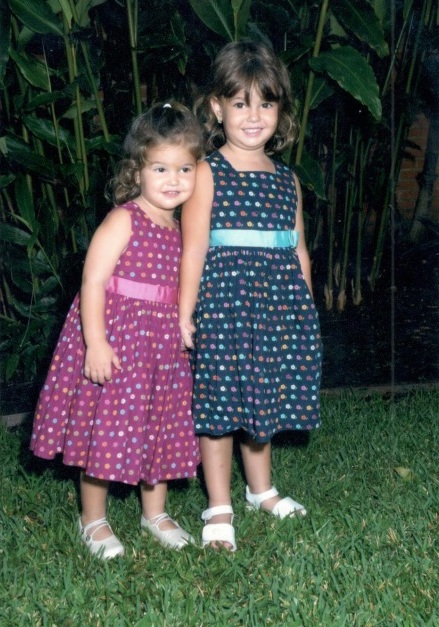
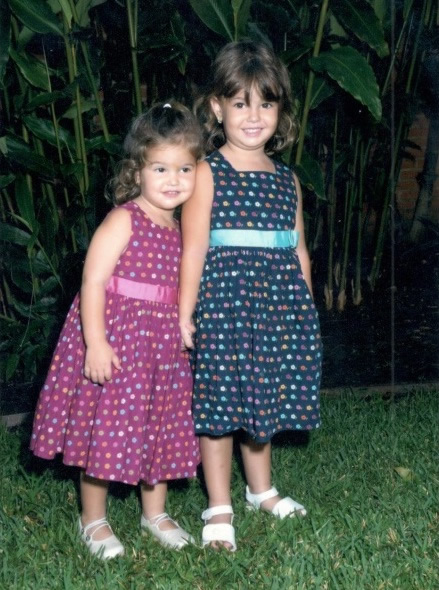
cambios

diff --git a/Biografías/Biografia Mi hermana Vivi/Biografia_Mi_hermana_Vivi.html b/Biografías/Biografia Mi hermana Vivi/Biografia_Mi_hermana_Vivi.html
@@ -31,7 +31,7 @@ body {
 <BODY LANG="es-VE" DIR="LTR">
 <P ALIGN=CENTER STYLE="margin-bottom: 0.14in"><A NAME="_GoBack"></A><FONT FACE="Times New Roman, serif"><FONT SIZE=3><SPAN LANG="en-US"><U>Mi
 hermana, Vivi Levy Cohen</U></SPAN></FONT></FONT></P>
-<P ALIGN=CENTER STYLE="margin-bottom: 0.14in"><IMG SRC="Biografia_Mi_hermana_Vivi_html_3df288a3.png" NAME="Imagen 45" ALIGN=BOTTOM WIDTH=202 HEIGHT=151 BORDER=0><IMG SRC="Biografia_Mi_hermana_Vivi_html_f6ceb9da.png" NAME="Imagen 46" ALIGN=BOTTOM WIDTH=190 HEIGHT=142 BORDER=0><IMG SRC="Biografia_Mi_hermana_Vivi_html_afddc7f2.png" NAME="Imagen 69" ALIGN=BOTTOM WIDTH=187 HEIGHT=141 BORDER=0></P>
+<P ALIGN=CENTER STYLE="margin-bottom: 0.14in"><IMG SRC="Biografia_Mi_hermana_Vivi_html_3df288a3.png" NAME="Imagen 45" ALIGN=BOTTOM WIDTH=202 HEIGHT=151 BORDER=0><IMG SRC="Biografia_Mi_hermana_Vivi_html_f6ceb9da.png" NAME="Imagen 46" ALIGN=BOTTOM WIDTH=190 HEIGHT=151 BORDER=0><IMG SRC="Biografia_Mi_hermana_Vivi_html_afddc7f2.png" NAME="Imagen 69" ALIGN=BOTTOM WIDTH=203 HEIGHT=151 BORDER=0></P>
 <P ALIGN=JUSTIFY STYLE="margin-bottom: 0.14in"><FONT FACE="Times New Roman, serif"><FONT SIZE=3><SPAN LANG="en-US">Vivi
 nació 18 meses después que yo, el 7 de enero del 2005. Mis padres
 se enteraron que era una niña ese mismo día, pues quisieron que sea
@@ -91,8 +91,8 @@ que a mí me provocaba hacer con ella (esto lo sé ya que mi mamá me
 enseñó varias fotos en las que me veo siempre montada encima de mi
 hermanita)</SPAN></FONT></FONT></P>
 <P ALIGN=CENTER STYLE="margin-bottom: 0.14in"><IMG SRC="Biografia_Mi_hermana_Vivi_html_2205f070.png" NAME="Imagen 62" ALIGN=BOTTOM WIDTH=233 HEIGHT=176 BORDER=0>
-<IMG SRC="Biografia_Mi_hermana_Vivi_html_f21e341b.png" NAME="Imagen 63" ALIGN=BOTTOM WIDTH=233 HEIGHT=174 BORDER=0>
-<IMG SRC="Biografia_Mi_hermana_Vivi_html_b30e93f3.png" NAME="Imagen 64" ALIGN=BOTTOM WIDTH=233 HEIGHT=174 BORDER=0></P>
+<IMG SRC="Biografia_Mi_hermana_Vivi_html_f21e341b.png" NAME="Imagen 63" ALIGN=BOTTOM WIDTH=233 HEIGHT=176 BORDER=0>
+<IMG SRC="Biografia_Mi_hermana_Vivi_html_b30e93f3.png" NAME="Imagen 64" ALIGN=BOTTOM WIDTH=233 HEIGHT=176 BORDER=0></P>
 <P LANG="en-US" ALIGN=JUSTIFY STYLE="margin-bottom: 0.14in"><BR>
 </P>
 <P ALIGN=JUSTIFY STYLE="margin-bottom: 0.14in"><FONT FACE="Times New Roman, serif"><FONT SIZE=3><SPAN LANG="en-US">Vivi
@@ -145,16 +145,17 @@ hace lo que siempre ha hecho “Vivir la vida de manera hermosa”.</SPAN></FONT
 </P>
 <P ALIGN=CENTER STYLE="margin-bottom: 0.14in"><FONT FACE="Times New Roman, serif"><FONT SIZE=5 STYLE="font-size: 20pt"><SPAN LANG="en-US"><B>MI
 HERMANA Y YO</B></SPAN></FONT></FONT></P>
-<P ALIGN=JUSTIFY STYLE="margin-bottom: 0.14in"><IMG SRC="Biografia_Mi_hermana_Vivi_html_3161d895.jpg" NAME="Imagen 1" ALIGN=BOTTOM WIDTH=215 HEIGHT=301 BORDER=0><IMG SRC="Biografia_Mi_hermana_Vivi_html_fb32b94c.png" NAME="Imagen 66" ALIGN=BOTTOM WIDTH=427 HEIGHT=331 BORDER=0></P>
-<P ALIGN=JUSTIFY STYLE="margin-bottom: 0.14in">           
-<IMG SRC="Biografia_Mi_hermana_Vivi_html_5e22783e.png" NAME="Imagen 68" ALIGN=BOTTOM WIDTH=212 HEIGHT=289 BORDER=0><IMG SRC="Biografia_Mi_hermana_Vivi_html_1480acfe.jpg" NAME="Imagen 14" ALIGN=BOTTOM WIDTH=366 HEIGHT=290 BORDER=0></P>
-<P ALIGN=JUSTIFY STYLE="margin-bottom: 0.14in"><IMG SRC="Biografia_Mi_hermana_Vivi_html_efd893fd.jpg" NAME="Imagen 37" ALIGN=BOTTOM WIDTH=312 HEIGHT=233 BORDER=0><IMG SRC="Biografia_Mi_hermana_Vivi_html_f394da62.jpg" NAME="Imagen 33" ALIGN=BOTTOM WIDTH=316 HEIGHT=237 BORDER=0><IMG SRC="Biografia_Mi_hermana_Vivi_html_30a11e70.jpg" NAME="Imagen 31" ALIGN=BOTTOM WIDTH=344 HEIGHT=193 BORDER=0><img src="Biografia_Mi_hermana_Vivi_html_226716f7.png" name="Imagen 4" align=BOTTOM width=315 height=235 border=0></P>
-<P LANG="en-US" ALIGN=RIGHT STYLE="margin-bottom: 0.14in"><img src="Biografia_Mi_hermana_Vivi_html_e9d8843c.jpg" name="Imagen 56" align=BOTTOM width=339 height=254 border=0><img src="Biografia_Mi_hermana_Vivi_html_5f15e97b.jpg" name="Imagen 52" align=BOTTOM width=346 height=260 border=0></P>
-<P ALIGN=JUSTIFY STYLE="margin-bottom: 0.14in"><IMG SRC="Biografia_Mi_hermana_Vivi_html_d7ffb01b.jpg" NAME="Imagen 58" ALIGN=BOTTOM WIDTH=296 HEIGHT=296 BORDER=0></P>
+<P ALIGN=center STYLE="margin-bottom: 0.14in"><IMG SRC="Biografia_Mi_hermana_Vivi_html_3161d895.jpg" NAME="Imagen 1" ALIGN=BOTTOM WIDTH=252 HEIGHT=329 BORDER=0><IMG SRC="Biografia_Mi_hermana_Vivi_html_fb32b94c.png" NAME="Imagen 66" ALIGN=BOTTOM WIDTH=413 HEIGHT=331 BORDER=0></P>
+<P ALIGN=CENTER STYLE="margin-bottom: 0.14in">           
+<IMG SRC="Biografia_Mi_hermana_Vivi_html_5e22783e.png" NAME="Imagen 68" ALIGN=BOTTOM WIDTH=297 HEIGHT=292 BORDER=0><IMG SRC="Biografia_Mi_hermana_Vivi_html_1480acfe.jpg" NAME="Imagen 14" ALIGN=BOTTOM WIDTH=371 HEIGHT=293 BORDER=0></P>
+<P ALIGN=CENTER STYLE="margin-bottom: 0.14in"><IMG SRC="Biografia_Mi_hermana_Vivi_html_efd893fd.jpg" NAME="Imagen 37" ALIGN=BOTTOM WIDTH=342 HEIGHT=258 BORDER=0><IMG SRC="Biografia_Mi_hermana_Vivi_html_f394da62.jpg" NAME="Imagen 33" ALIGN=BOTTOM WIDTH=327 HEIGHT=258 BORDER=0></P>
+<P ALIGN=CENTER STYLE="margin-bottom: 0.14in"><IMG SRC="Biografia_Mi_hermana_Vivi_html_30a11e70.jpg" NAME="Imagen 31" ALIGN=BOTTOM WIDTH=356 HEIGHT=247 BORDER=0><img src="Biografia_Mi_hermana_Vivi_html_226716f7.png" name="Imagen 4" align=BOTTOM width=314 height=248 border=0></P>
+<P LANG="en-US" ALIGN=center STYLE="margin-bottom: 0.14in"><img src="Biografia_Mi_hermana_Vivi_html_e9d8843c.jpg" name="Imagen 56" align=BOTTOM width=350 height=281 border=0><img src="Biografia_Mi_hermana_Vivi_html_5f15e97b.jpg" name="Imagen 52" align=BOTTOM width=323 height=282 border=0></P>
+<P ALIGN=CENTER STYLE="margin-bottom: 0.14in"><IMG SRC="Biografia_Mi_hermana_Vivi_html_d7ffb01b.jpg" NAME="Imagen 58" ALIGN=BOTTOM WIDTH=296 HEIGHT=296 BORDER=0></P>
 <P ALIGN=JUSTIFY STYLE="margin-bottom: 0.14in">&nbsp;</P>
 <p align="center"><FONT FACE="Times New Roman, serif"><FONT SIZE=5 STYLE="font-size: 20pt"><U>DOCUMENTOS</U></FONT></FONT></p>
 <p align="center">&nbsp;</p>
-<P LANG="en-US" ALIGN=CENTER STYLE="margin-bottom: 0.14in"><img src="actanacimiento.png" width="311" height="426"><img src="cedula.png" width="247" height="172"><BR><BR>
+<P LANG="en-US" ALIGN=CENTER STYLE="margin-bottom: 0.14in"><img src="actanacimiento.png" width="319" height="436"><img src="cedula.png" width="297" height="206"><BR><BR>
 </P>
 <P ALIGN=JUSTIFY STYLE="margin-bottom: 0.14in"><BR><BR>
 </P>
